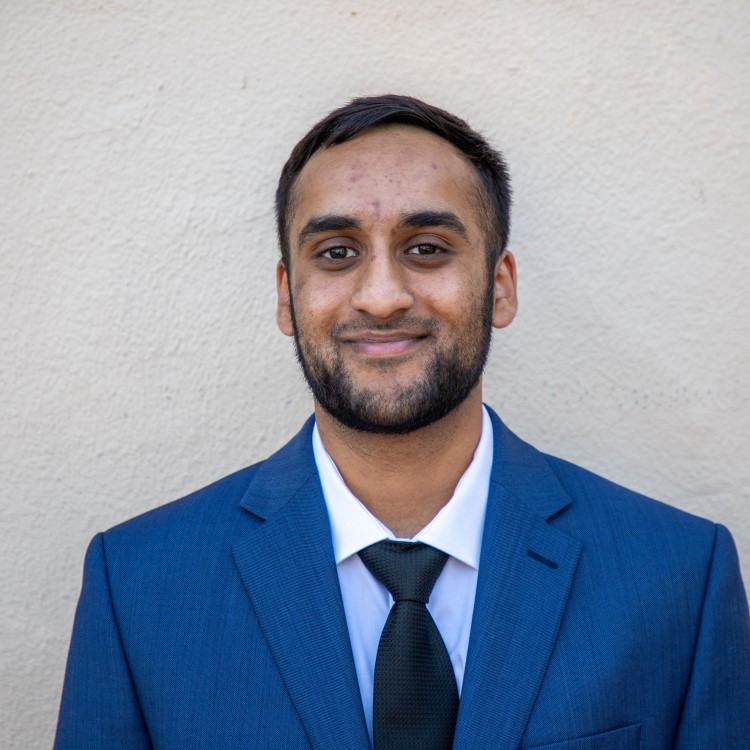
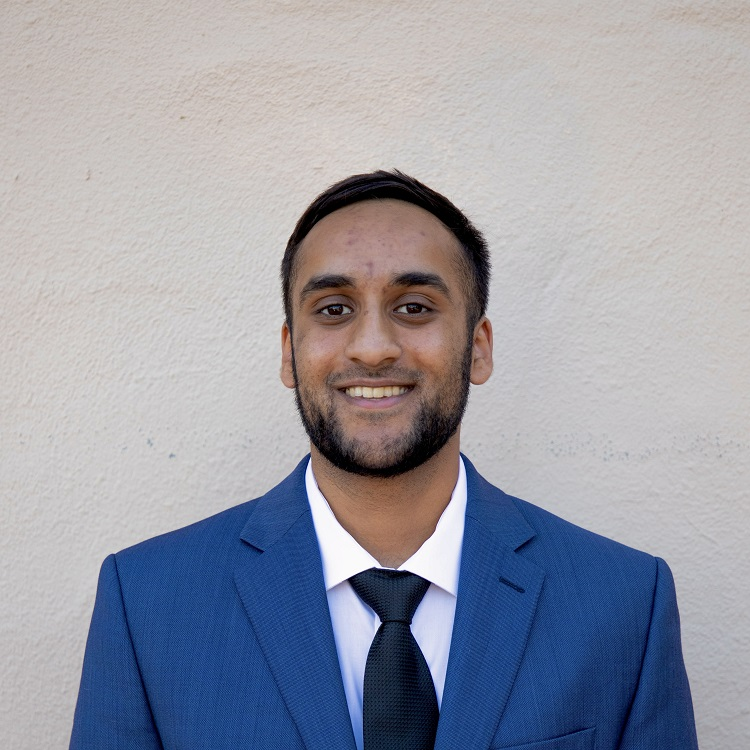
Update board bios/pics

diff --git a/src/components/BoardList.vue b/src/components/BoardList.vue
@@ -28,12 +28,13 @@ import KatieCarter from "../assets/board/main/Katie_Carter.jpg";
 import RileyWong from "../assets/board/main/Riley_Wong.jpg";
 import KayaChun from "../assets/board/main/Kaya_Chun.jpg";
 
-import CaseyBates from "../assets/board/broncosec/Casey_Bates.jpg";
+import WalkerSelby from "../assets/board/broncosec/Walker_Selby.jpg";
 import DevinBhatt from "../assets/board/broncosec/Devin_Bhatt.jpg";
 import DannyWalsh from "../assets/board/broncosec/Danny_Walsh.jpg";
+import KaraBaresse from "../assets/board/broncosec/Kara_Baresse.jpg";
 import DavisRobertson from "../assets/board/broncosec/Davis_Robertson.jpg";
-import EthanSychangco from "../assets/board/broncosec/Ethan_Sychangco.png";
-import TiffanyNguyen from "../assets/board/broncosec/Tiffany_Nguyen.png";
+import EthanSychangco from "../assets/board/broncosec/Ethan_Sychangco.jpg";
+import TiffanyNguyen from "../assets/board/broncosec/Tiffany_Nguyen.jpg";
 import VarunMangla from "../assets/board/broncosec/Varun_Mangla.jpg";
 
 import AnayaGoradia from "../assets/board/ACM-W/Anaya_Goradia.jpg";
@@ -178,7 +179,7 @@ export default {
       acmWBoard: [
         {
           src: AnayaGoradia,
-          name: "Ananya Goradia",
+          name: "Anaya Goradia",
           role: "President",
           bio: 
             ""
@@ -287,52 +288,58 @@ export default {
         {
           src: DannyWalsh,
           name: "Danny Walsh",
-          role: "BroncoSec President",
+          role: "",
           bio:
-            "Hello, my name is Danny Walsh, and I’m excited to be BroncoSec President this year! I am a junior Web Design & Engineering major from Georgetown, Massachusetts. When I’m not at my computer, I’m probably playing hockey for the SCU club ice hockey team, cooking for my friends, or playing guitar. I’m especially interested in front-end development, learning good UI techniques, and solving difficult coding challenges. I’m looking forward to seeing so many of you at our BroncoSec events and sharing our interest in cyber security. If you have any questions, feel free to reach out!",
-        },
+            ""
+          },
         {
           src: VarunMangla,
           name: "Varun Mangla",
-          role: "Public Relations",
+          role: "",
           bio:
             "Hello everyone! I'm Varun, a sophomore Computer Science and Engineering student from Los Altos, CA. While I only started coding during the winter quarter of my first year at SCU, I've always been fascinated with technology. I'm eager to join BroncoSec as its Public Relations manager this year, as participating in the club helped me develop a budding interest in cybersecurity. Through this role, I intend to introduce other students to BroncoSec and the ever-growing field of cybersecurity. Outside of computer science, some of my interests are music, games, and hanging out with my friends. Please let me know if you have any questions or suggestions, and I'm looking forward to seeing everyone at our weekly club meetings!",
         },
         {
           src: EthanSychangco,
           name: "Ethan Sychangco",
-          role: "Underclassmen Representative",
+          role: "",
           bio:
             "Hello, my name is Ethan Sychangco! I am one of your BroncoSec underclassman representatives for the 2022-2023 school year! I am a first-year majoring in Computer Science and Engineering, and I am local to the Bay Area. I find interest in all things technology, gaming, and cybersecurity, and I want to bring that excitement to the BroncoSec club. When I am not laser-focused on developing a project, I am probably spending time with family, enjoying game nights with friends, or watching random YouTube videos to take a break from my busy days. I want to make sure all BroncoSec members have their voices heard, and that we can support each other's passions for cybersecurity. You can reach out to me at any time!",
         },
         {
           src: TiffanyNguyen,
           name: "Tiffany Nguyen",
-          role: "Representative",
+          role: "",
           bio:
             "My name is Tiffany Nguyen, and I am a freshman majoring in Computer Science and Engineering from San Jose, California. I am passionate about learning about all the fun and interesting ways computer science can be applied across various fields like cybersecurity, and I hope to be able to help plan fun activities that get others excited about security.",
         },
         {
           src: DavisRobertson,
           name: "Davis Robertson",
-          role: "External CTF Coordinator",
+          role: "",
           bio:
             "Hello! I’m Davis and I’m excited to be BroncoSec’s external CTF coordinator this year! I am a junior computer science (security emphasis) and philosophy major from New York. I’ve been interested in computer science since I was a kid and have really enjoyed being a part of BroncoSec at SCU. When I’m not writing papers or working on CS projects there’s a good chance you can find me playing or watching basketball. Please reach out if you have any questions or for any other reason, I’m looking forward to connecting with the BroncoSec community!",
         },
         {
           src: DevinBhatt,
           name: "Devin Bhatt",
-          role: "BroncoCTF Coordinator",
+          role: "",
           bio:
             "Hi, I’m Devin. I’m a junior Computer Science from the Bay Area. For my second year on the BroncoCTF board, I’ve taken on the role of BroncoCTF coordinator. Most of my work at BroncoSec involves planning for BroncoCTF, writing challenges, and setting up the infrastructure for you to (hopefully not) break :wink:. I love to learn new things (especially when it comes to security and infrastructure), and I love to help others learn as well. I hope that BroncoCTF is not just a fun event, but a learning opportunity for all of its attendees!",
         },
         {
-          src: CaseyBates,
-          name: "Casey Bates",
-          role: "Graduate Relations",
+          src: WalkerSelby,
+          name: "Walker Selby",
+          role: "",
+          bio: ""
+        },
+        {
+          src: KaraBaresse,
+          name: "Kara Baresse",
+          role: "",
           bio:
-            "Hi All! I’m Casey, a Computer Science and Engineering Master's student from San Jose, CA. I'm passionate about Cybersecurity, and I especially enjoy solving tough challenges during capture the flag competitions. I also love learning more about other topics like computer networks, IoT, and cloud computing. Outside of school, I've been able to combine my interests in computers and baseball by working as a Software Engineer for the Philadelphia Phillies. Please feel free to reach out if you have questions, suggestions, or even just want to chat. I hope to see you all at BroncoSec events this year!",
-        }
+            ""
+          },
       ],
 
       aiColabBoard: [
